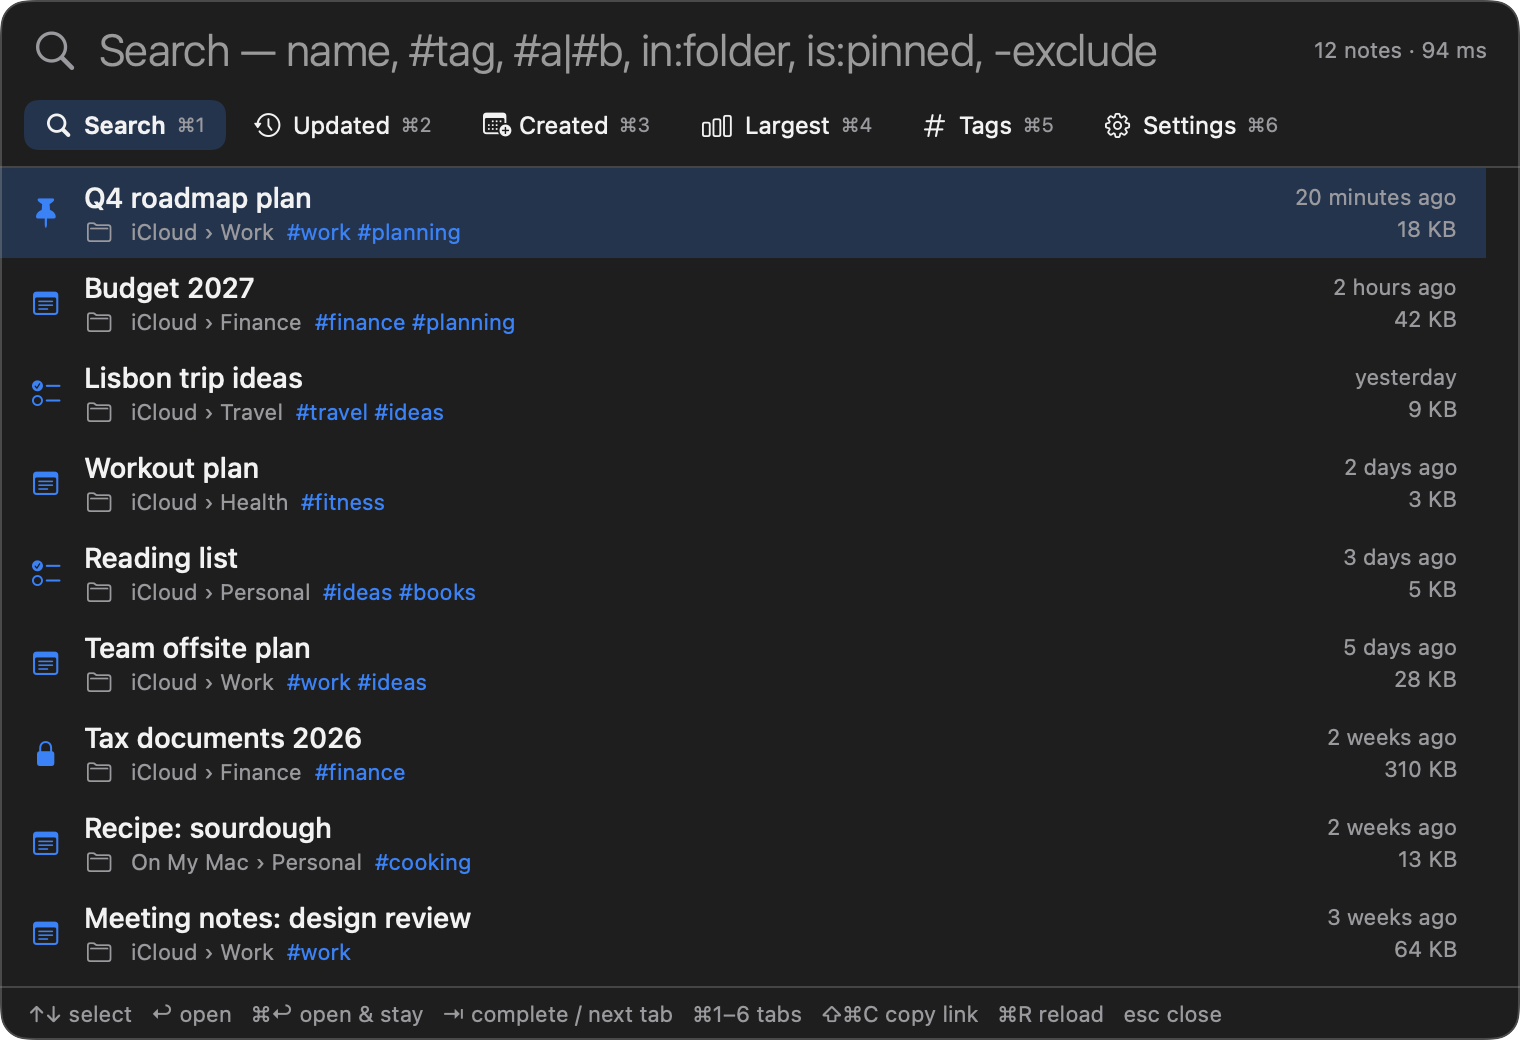
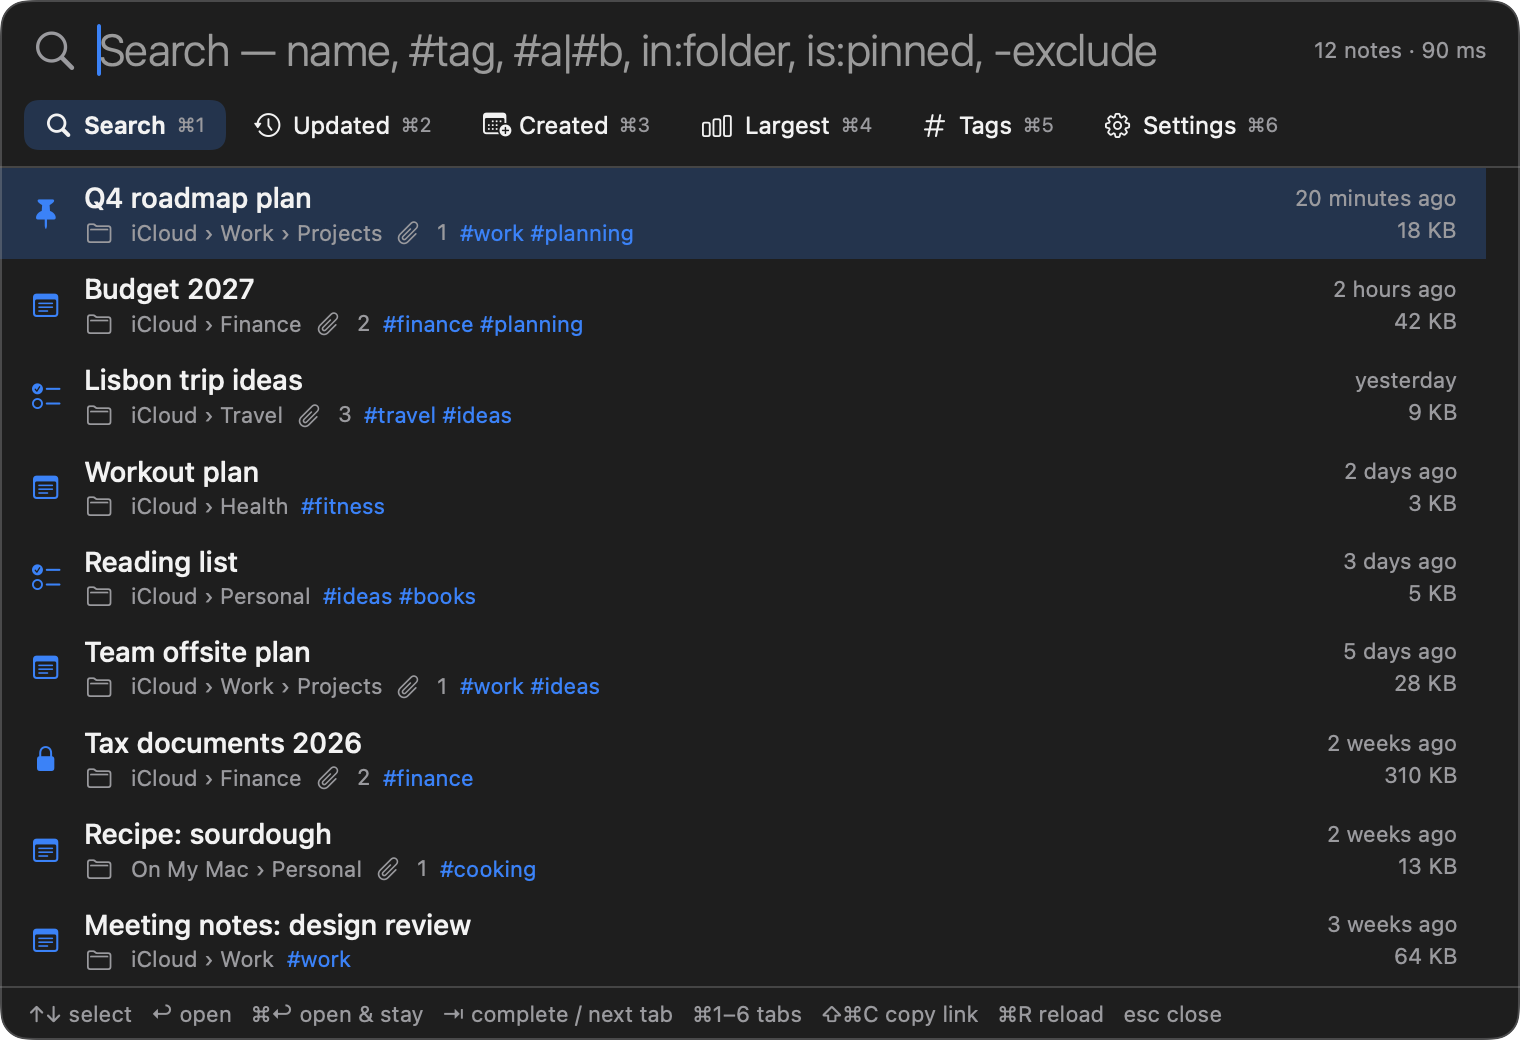
Docs: screenshots for 1.1 (attachments, nested folders)

diff --git a/README.md b/README.md
@@ -35,6 +35,7 @@ Step-by-step instructions with pictures are in [Getting started](docs/getting-st
 | --- | --- |
 | ![Search combining hashtags and a title word](docs/images/search.png) <br> Either of two hashtags, plus a word in the title | ![Hashtag autocomplete](docs/images/autocomplete.png) <br> Hashtag autocomplete |
 | ![Typo-tolerant search with folder autocomplete](docs/images/typo.png) <br> A typo still finds the note; folders autocomplete too | ![Largest notes tab](docs/images/largest.png) <br> Largest notes (Dracula theme) |
+| ![Notes with PDF attachments](docs/images/attachments.png) <br> Notes with a PDF attached: `is:attachment pdf` | ![Notes in a folder and its sub-folders](docs/images/folders.png) <br> A folder and its sub-folders: `in:work` (Solarized Dark theme) |
 | ![Tags tab](docs/images/tags.png) <br> Every hashtag with its note count (Midnight theme) | ![Settings](docs/images/settings.png) <br> Settings (Notes Yellow theme) |
 
 ## Documentation

diff --git a/docs/search-syntax.md b/docs/search-syntax.md
@@ -22,6 +22,18 @@ Folder and account names are matched with spaces removed. For a folder called "W
 From version 1.1, nested folders are shown with their full path ("Work › Projects") and `in:` matches any part of
 it, so `in:work` also finds notes in the sub-folders of "Work".
 
+![Notes in a folder and its sub-folders](images/folders.png)
+
+*`in:work` finds notes in "Work" and in "Work › Projects" and "Work › Writing".*
+
+## Attachments
+
+From version 1.1, a paperclip and a number show how many attachments a note has. `is:attachment` lists notes that
+have any, and plain words also match attachment file names, so `is:attachment pdf` finds notes with a PDF attached.
+Only file names are used, never what is inside the files.
+
+![Notes with PDF attachments](images/attachments.png)
+
 ## Combining terms
 
 | You type | Meaning |
